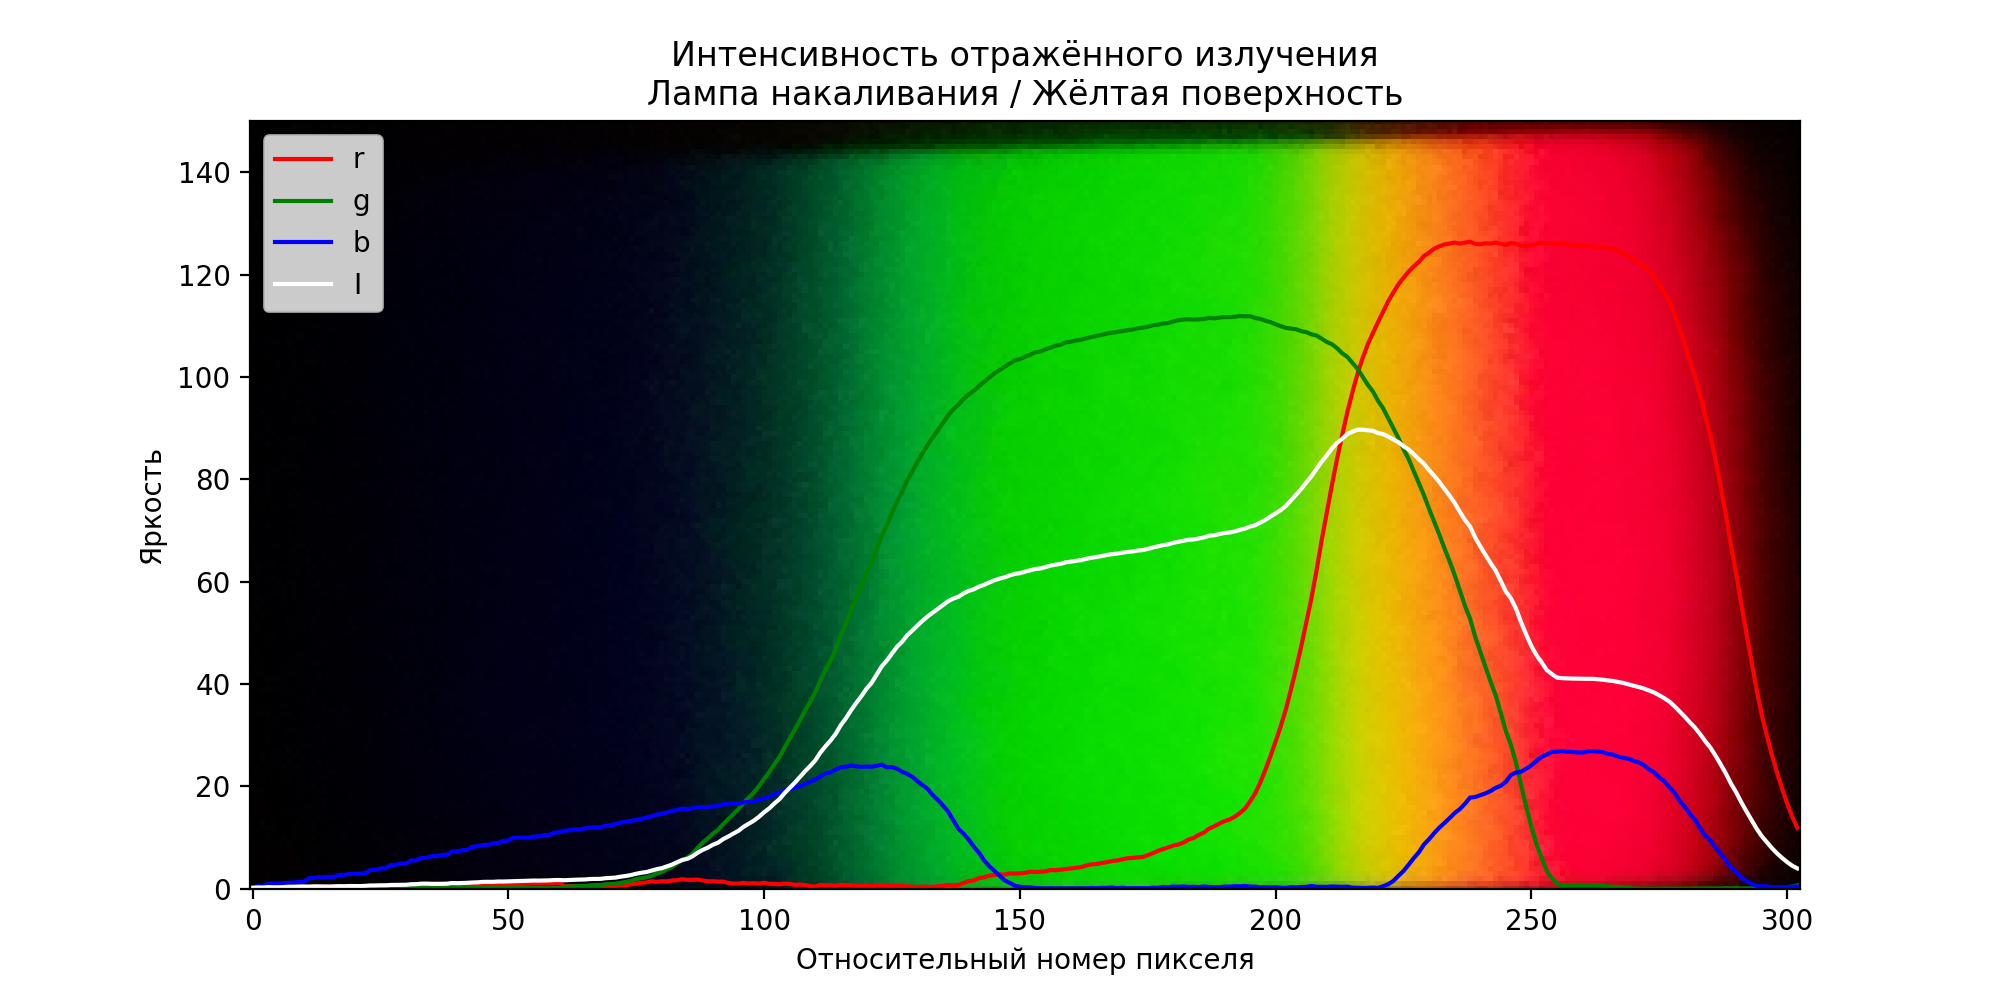
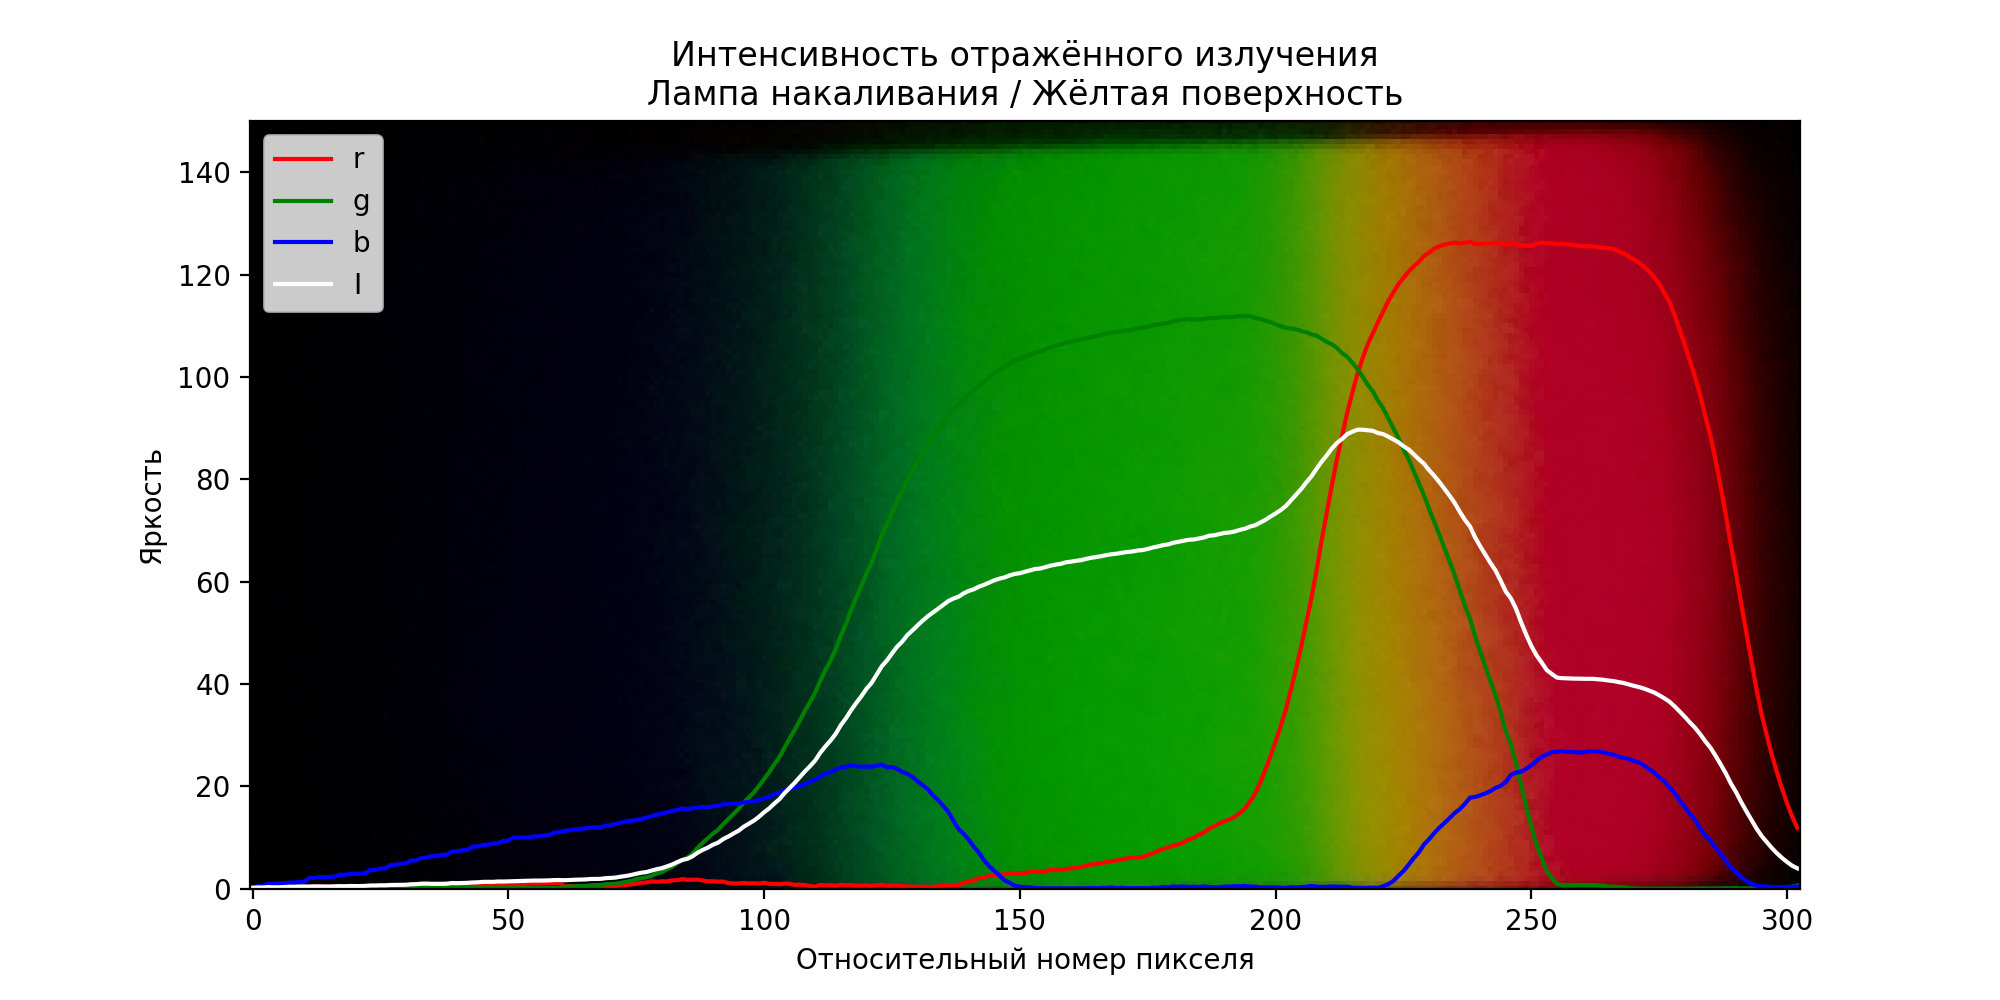
Add files via upload

diff --git a/ant3/code.py b/ant3/code.py
@@ -54,6 +54,8 @@ def readIntensity(photoName, plotName, lamp, surface):
     plt.ylim(0, 150)
     plt.legend()
 
+    background = (background * 0.7).astype(np.uint8)
+
     plt.imshow(background, origin='lower')
 
     plt.savefig(plotName)
@@ -64,6 +66,6 @@ readIntensity("GREEN.jpg", "график_зелёный.png", "Ртутная л
 #readIntensity("WHITE.jpg", "график_белый.png", "Лампа накаливания", "Белая поверхность")
 readIntensity("BLUE.jpg", "график_синий.png", "Лампа накаливания", "Синяя поверхность")
 readIntensity("RED.jpg", "график_красный.png", "Лампа накаливания", "Красная поверхность")
-readIntensity("RTUT.jpg", "график_ртуть2.png", "Ртутная лампа", "Эталонная поверхность (Ртуть)")
+readIntensity("RTUT2.jpg", "график_ртуть2.png", "Ртутная лампа", "Эталонная поверхность (Ртуть)")
 readIntensity("YELLOW.jpg", "график_желтый.png", "Лампа накаливания", "Жёлтая поверхность")
 readIntensity("WHITE_REFERENC.jpg", "график_эталон.png", "Лампа накаливания", "Эталонная белая поверхность")
